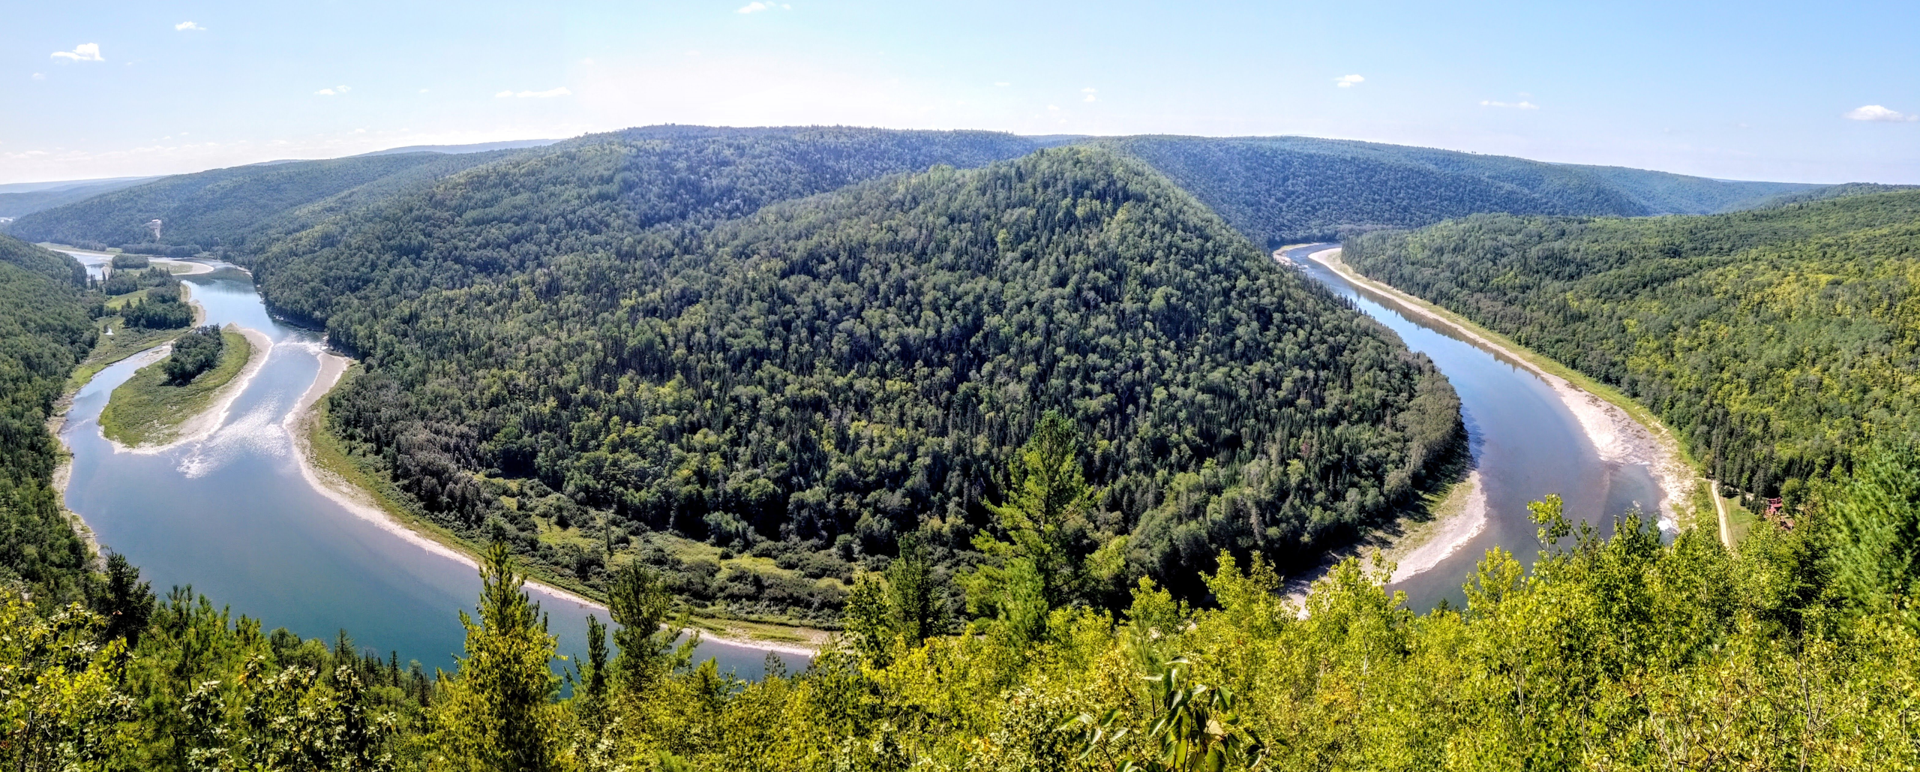
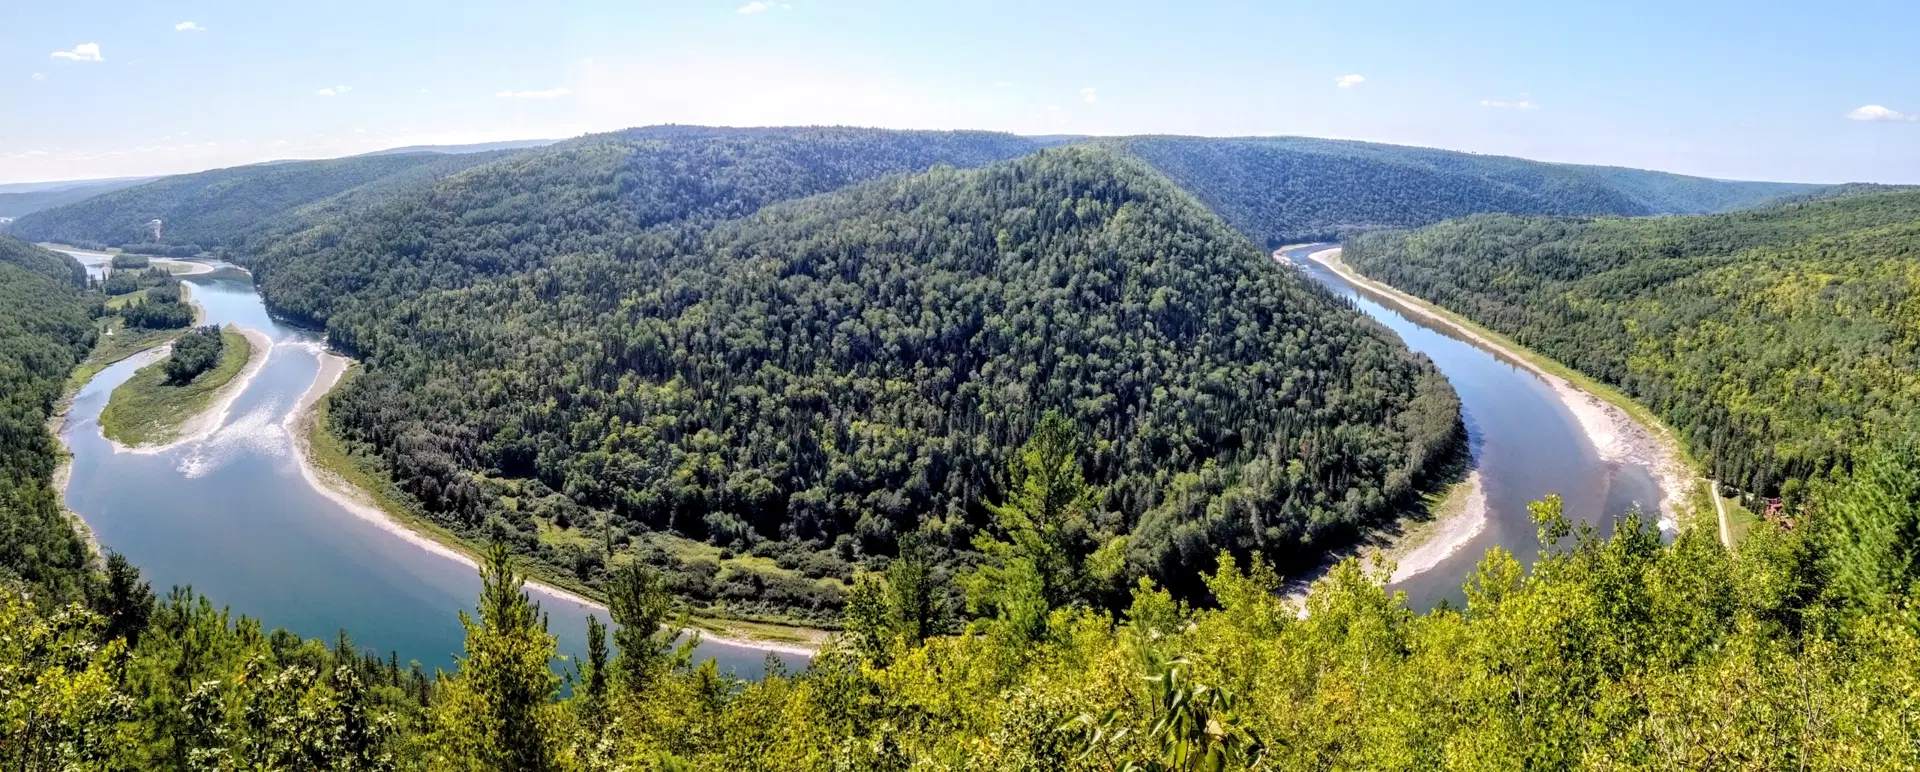
Optimize responsive homepage hero

diff --git a/assets/css/main.css b/assets/css/main.css
@@ -134,9 +134,25 @@ body {
   inset: 0;
   background:
     linear-gradient(90deg, rgba(0,0,0,0.58) 0%, rgba(0,0,0,0.34) 46%, rgba(0,0,0,0.08) 100%),
-    url('../img/hero-2560.webp');
+    url('../img/hero-mobile.webp');
   background-size: cover;
   background-position: center;
+}
+
+@media (min-width: 900px) {
+  .hero-bg {
+    background-image:
+      linear-gradient(90deg, rgba(0,0,0,0.58) 0%, rgba(0,0,0,0.34) 46%, rgba(0,0,0,0.08) 100%),
+      url('../img/hero-1920.webp');
+  }
+}
+
+@media (min-width: 1600px) {
+  .hero-bg {
+    background-image:
+      linear-gradient(90deg, rgba(0,0,0,0.58) 0%, rgba(0,0,0,0.34) 46%, rgba(0,0,0,0.08) 100%),
+      url('../img/hero-2560.webp');
+  }
 }
 
   /* River texture overlay */
